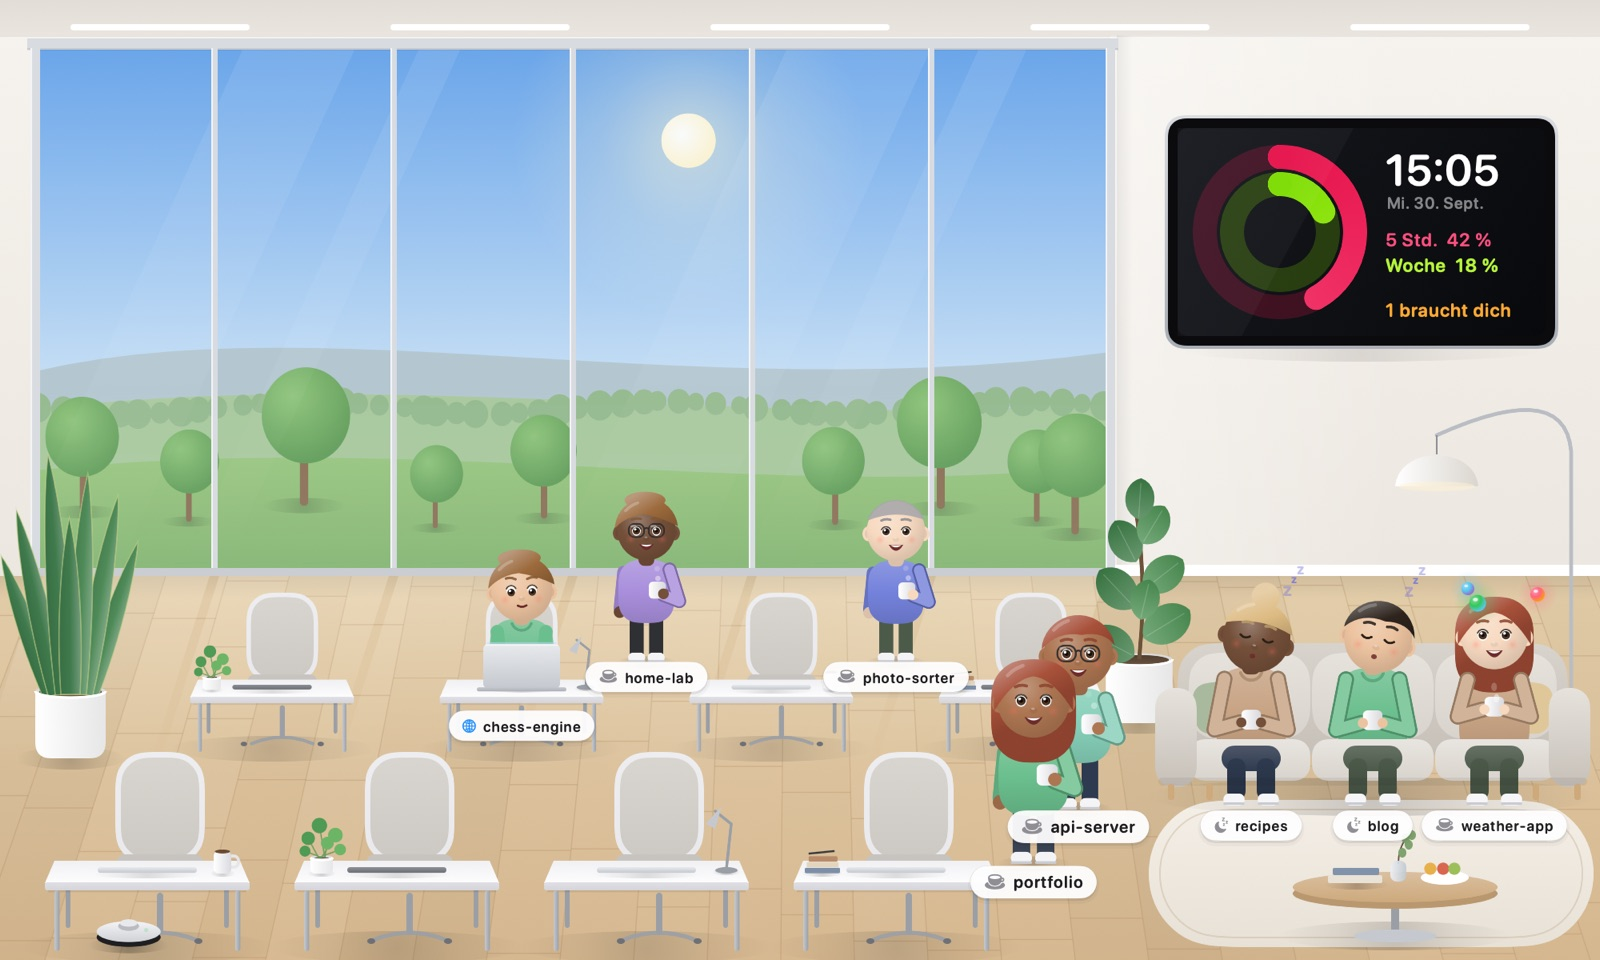
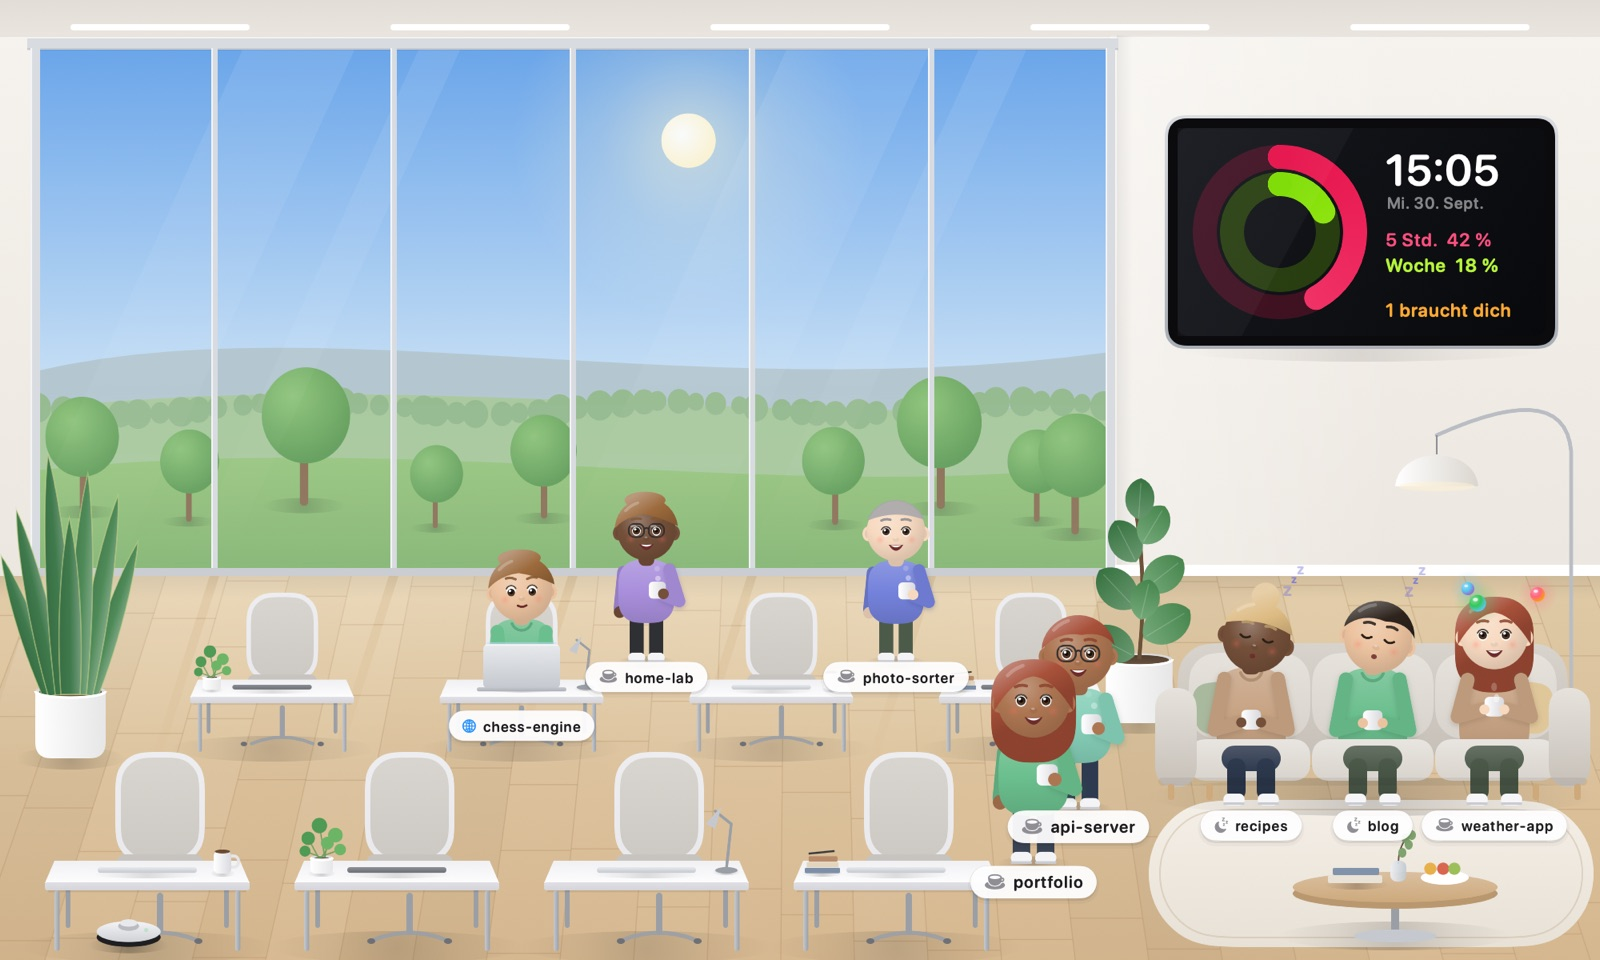
Softer arm shading; hide closed sessions even while older unregistered Claude processes run

diff --git a/Sources/Monitor.swift b/Sources/Monitor.swift
@@ -481,12 +481,12 @@ private final class MonitorCore: @unchecked Sendable {
     private func alive(_ pid: pid_t) -> Bool { pid <= 1 || kill(pid, 0) == 0 || errno != ESRCH }
 
     /// Claude Code (ab ~2.1) meldet jeden laufenden Terminal-Prozess in ~/.claude/sessions/<pid>.json an und
-    /// löscht die Datei beim Beenden. `complete` nur, wenn jede Datei lesbar ist und kein lokaler claude-Prozess
-    /// ohne Anmeldung läuft (ältere Version) – sonst lässt sich „beendet“ nicht sicher ableiten.
-    private func sessionRegistry() -> (ids: Set<String>, complete: Bool) {
+    /// löscht die Datei beim Beenden. `complete` nur, wenn jede Datei lesbar ist; `unregistered` = Startzeiten
+    /// lokaler claude-Prozesse ohne Anmeldung (ältere Versionen).
+    private func sessionRegistry() -> (ids: Set<String>, complete: Bool, unregistered: [Date]) {
         let fm = FileManager.default
         var ids = Set<String>(), pids = Set<pid_t>(), complete = true
-        guard let items = try? fm.contentsOfDirectory(at: Paths.claudeSessions, includingPropertiesForKeys: nil) else { return ([], false) }
+        guard let items = try? fm.contentsOfDirectory(at: Paths.claudeSessions, includingPropertiesForKeys: nil) else { return ([], false, []) }
         for f in items where f.pathExtension == "json" {
             if let pid = pid_t(f.deletingPathExtension().lastPathComponent) { pids.insert(pid) }
             guard isLocal(f), let d = try? Data(contentsOf: f),
@@ -494,8 +494,30 @@ private final class MonitorCore: @unchecked Sendable {
                   let sid = j["sessionId"] as? String else { complete = false; continue }
             ids.insert(sid)
         }
-        if complete { complete = !claudePids().contains { !pids.contains($0) } }
-        return (ids, complete)
+        let unregistered = claudePids().filter { !pids.contains($0) }.compactMap(processStart)
+        return (ids, complete, unregistered)
+    }
+
+    /// Nicht angemeldete Sitzungen, die noch laufen dürften: je alter Prozess die eine Sitzung, deren Datei kurz nach
+    /// dem Prozessstart angelegt wurde. Passt das nicht eindeutig (z. B. --resume, /clear) → nil = alle behalten.
+    private func unregisteredOwners(_ starts: [Date], _ candidates: [String: Date]) -> Set<String>? {
+        var keep = Set<String>()
+        for start in starts {
+            let hits = candidates.filter { $0.value >= start.addingTimeInterval(-10) && $0.value <= start.addingTimeInterval(600) }
+            guard hits.count == 1, let sid = hits.first?.key else { return nil }
+            keep.insert(sid)
+        }
+        return keep
+    }
+
+    private func processStart(_ pid: pid_t) -> Date? {
+        var info = proc_bsdinfo()
+        guard proc_pidinfo(pid, PROC_PIDTBSDINFO, 0, &info, Int32(MemoryLayout<proc_bsdinfo>.size)) > 0 else { return nil }
+        return Date(timeIntervalSince1970: TimeInterval(info.pbi_start_tvsec))
+    }
+
+    private func created(_ path: String) -> Date {
+        (try? FileManager.default.attributesOfItem(atPath: path)[.creationDate] as? Date) ?? .distantPast
     }
 
     private func claudePids() -> [pid_t] {
@@ -552,19 +574,27 @@ private final class MonitorCore: @unchecked Sendable {
     private func emit() {
         let now = Date()
         var mains: [String: FileState] = [:]
+        var mainPaths: [String: String] = [:]
         var subs: [String: [FileState]] = [:]
-        for st in files.values {
+        for (path, st) in files {
             if st.isSubagent { if let p = st.parentId { subs[p, default: []].append(st) } }
-            else { mains[st.sessionId] = st }
+            else { mains[st.sessionId] = st; mainPaths[st.sessionId] = path }
         }
         var out: [AgentSession] = []
         let registry = sessionRegistry()
+        // Terminal-Sitzung ohne Anmeldung → Prozess beendet, außer ein alter (nicht anmeldender) Prozess gehört dazu
+        var unregisteredKeep: Set<String>? = []
+        if registry.complete, !registry.unregistered.isEmpty {
+            var candidates: [String: Date] = [:]
+            for (sid, st) in mains where st.source == .cli && !registry.ids.contains(sid) { candidates[sid] = created(mainPaths[sid] ?? "") }
+            unregisteredKeep = unregisteredOwners(registry.unregistered, candidates)
+        }
         for (sid, st) in mains {
             let h = hooks[sid]
             if h?.ended == true { continue }
             if let pid = h?.pid, !alive(pid) { continue }
-            // Terminal-Sitzung ohne Anmeldung → Prozess beendet (kurze Schonfrist für den Start)
-            if st.source == .cli, registry.complete, !registry.ids.contains(sid), now.timeIntervalSince(st.lastEvent) > 30 { continue }
+            if st.source == .cli, registry.complete, let keep = unregisteredKeep, !registry.ids.contains(sid), !keep.contains(sid),
+               now.timeIntervalSince(st.lastEvent) > 30 { continue }   // kurze Schonfrist für den Start
             let hooksActive = h != nil
             var status = heuristicStatus(st, now: now, hooksActive: hooksActive)
             var activity = st.thinking ? L("Denkt nach …", "Thinking …") : (st.toolPending ? st.toolActivity : "")

diff --git a/Sources/OfficeScene.swift b/Sources/OfficeScene.swift
@@ -938,10 +938,13 @@ struct OfficeScene {
         }
     }
 
-    /// Arm vor dem Oberkörper: dunkle Kontur, sonst verschwindet der Ärmel im gleichfarbigen Pullover.
+    /// Arm vor dem Oberkörper: weicher Schatten darunter + etwas dunklerer Ärmel, sonst verschwindet er im gleichfarbigen Pullover.
     private func sleeve(_ ctx: inout GraphicsContext, _ arm: Path, _ T: Tones, _ s: CGFloat) {
-        ctx.stroke(arm, with: .color(darker(T.shirt, 0.3)), style: StrokeStyle(lineWidth: 11.5 * s, lineCap: .round, lineJoin: .round))
-        ctx.stroke(arm, with: .color(T.shirtLight), style: StrokeStyle(lineWidth: 8.5 * s, lineCap: .round, lineJoin: .round))
+        let style = StrokeStyle(lineWidth: 10 * s, lineCap: .round, lineJoin: .round)
+        var shade = ctx
+        shade.addFilter(.blur(radius: 2.2 * s))
+        shade.stroke(arm.applying(CGAffineTransform(translationX: 0, y: 1.5 * s)), with: .color(darker(T.shirt, 0.45).opacity(0.35)), style: style)
+        ctx.stroke(arm, with: .color(darker(T.shirt, 0.07)), style: style)
     }
 
     /// Stehende/laufende Figur: a.point = Füße.
